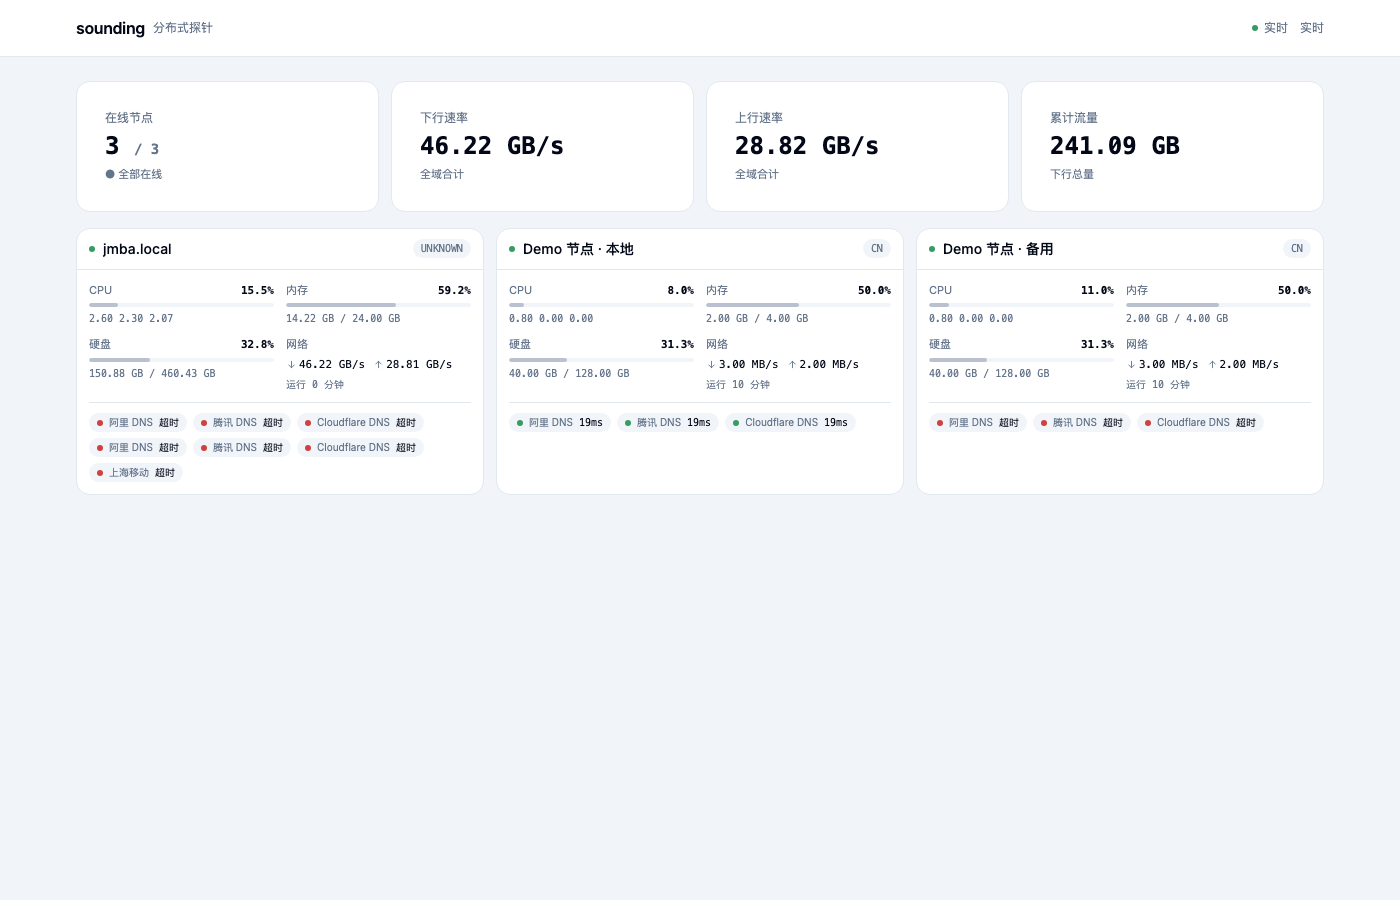
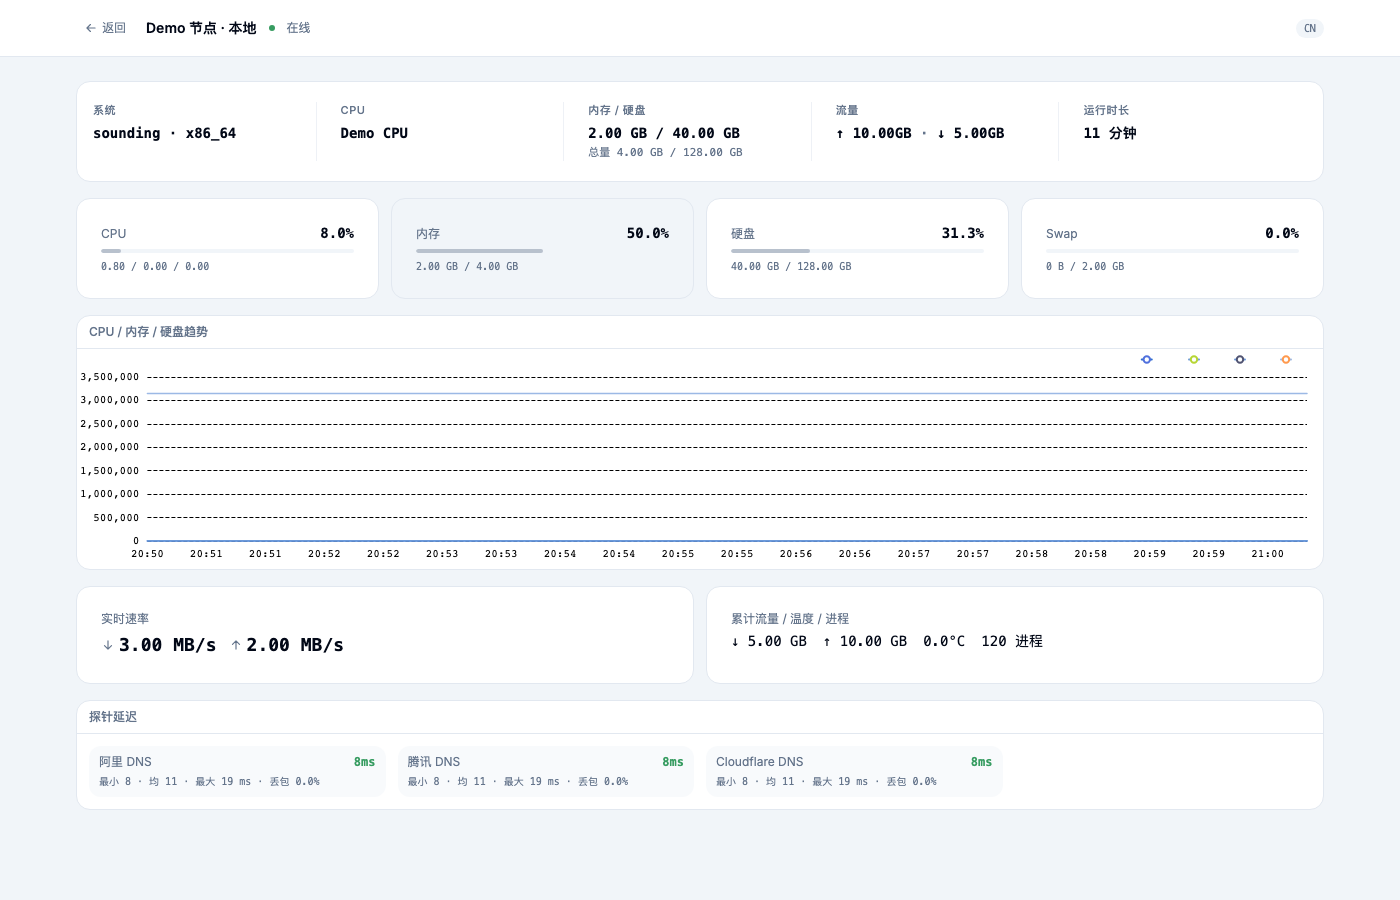
fix(dashboard): App.vue 改用 RouterView（此前硬编码 DashboardView 导致详情页不切换）+ 详情页截图

diff --git a/web/dashboard/src/App.vue b/web/dashboard/src/App.vue
@@ -1,7 +1,3 @@
-<script setup lang="ts">
-import DashboardView from '@/views/DashboardView.vue'
-</script>
-
 <template>
-  <DashboardView />
+  <RouterView />
 </template>
